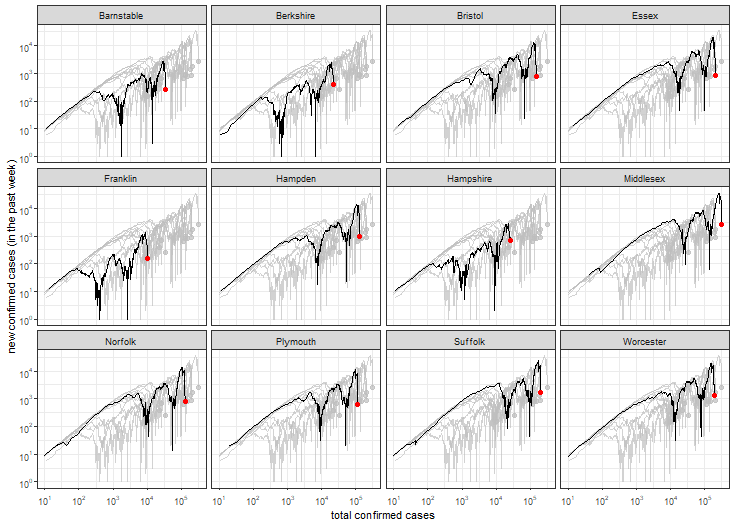
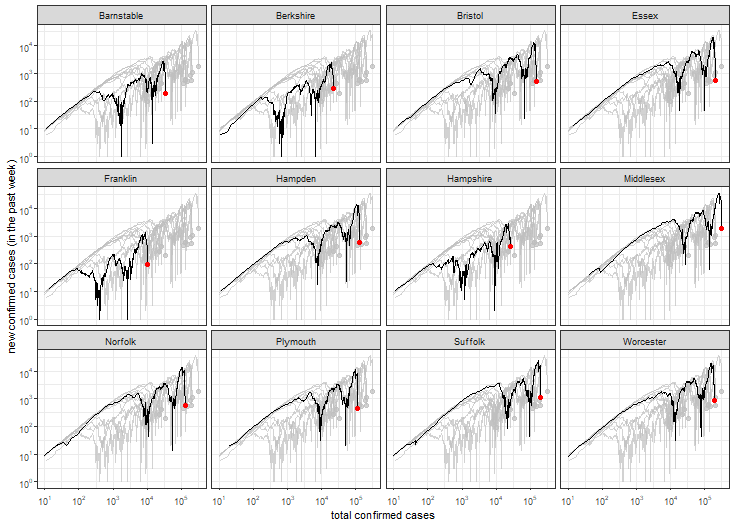
updated repo

diff --git a/README.md b/README.md
@@ -1,4 +1,4 @@
-Trends in COVID-19 for counties in the U.S. state of Massachusetts (updated on 2022-02-21)
+Trends in COVID-19 for counties in the U.S. state of Massachusetts (updated on 2022-02-22)
 ==========================================================================================
 
 ![trends in covid-19 cases by county in the U.S. state of
